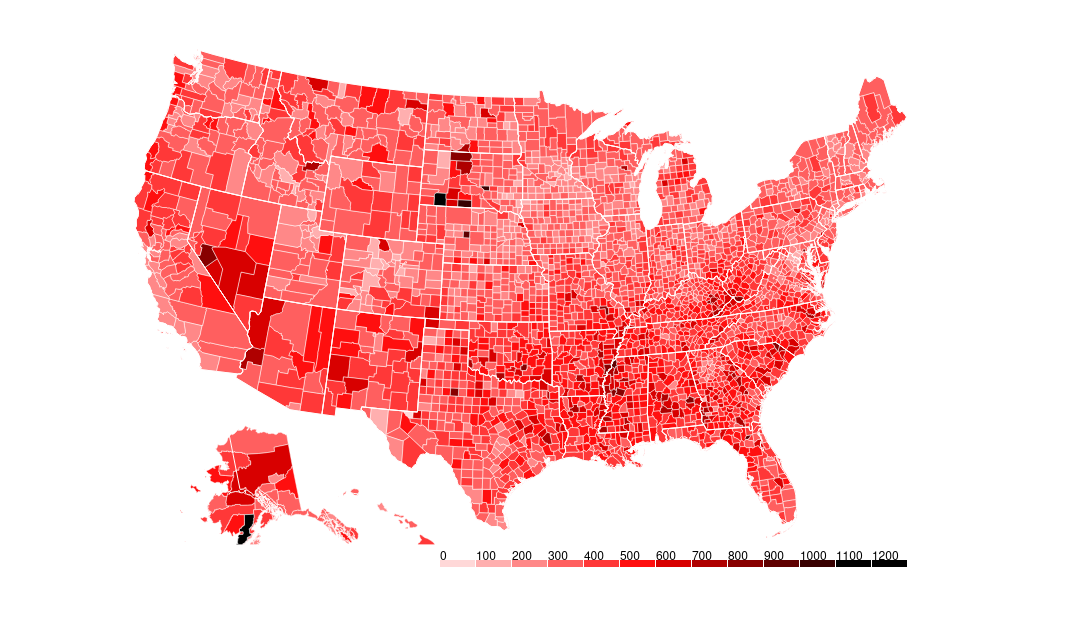
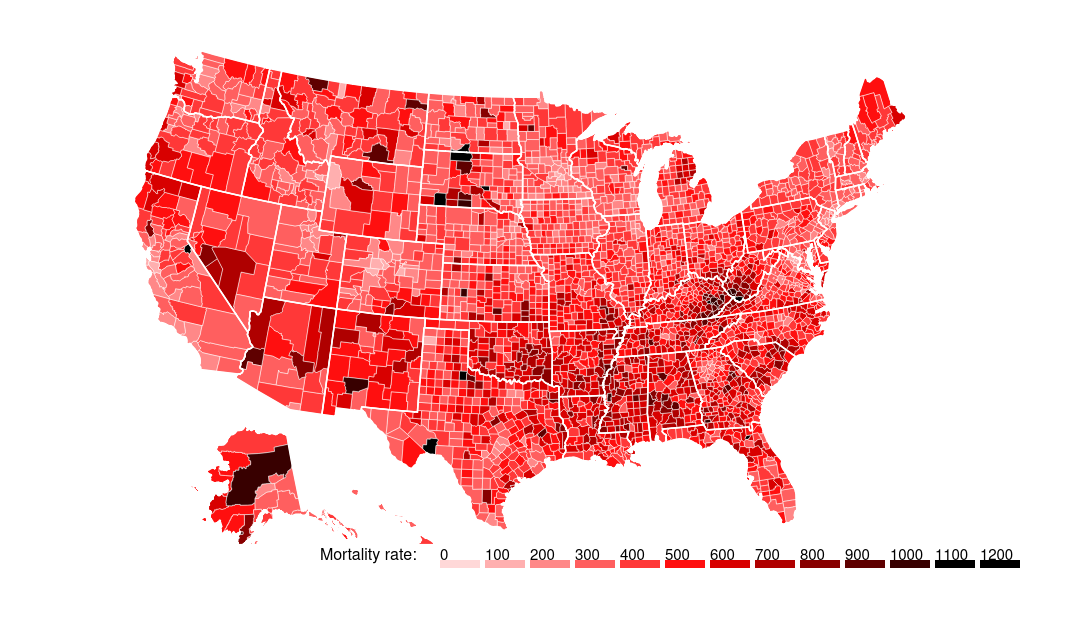
changed legend and added text, but couldn't run image_fixer.R

Changed region(s): [[0.1231, 0.0913, 0.8619, 0.8526], [0.1847, 0.6699, 0.9543, 0.9135], [0.3694, 0.8221, 0.4002, 0.8526]]

diff --git a/www/d3_animation.js b/www/d3_animation.js
@@ -134,11 +134,11 @@ r2d3.onRender(function(data, svg, width, height, options) {
           .enter()
           .append("rect")
           .attr({
-              width: 35,
-              height: 7,
+              width: 40,
+              height: 8,
               y: 520,
               x: function (d, i) {
-                  return 400 + 36 * i;
+                  return 400 + 45 * i;
               },
               fill: color
           });
@@ -150,14 +150,20 @@ r2d3.onRender(function(data, svg, width, height, options) {
       .attr({
         y:520,
         x:function(d,i){
-          return 400 + 36 * i;
+          return 400 + 45 * i;
         }})
       .text(function(d){
           return d;
         })
-      .style("font-size", "12px")
-      ;
-          
+      .style("font-size", "15px");
+      
+  svg.append("text")
+     .attr({
+       y:520,
+       x:280
+     })
+     .text("Mortality rate:");
+     
   var index = 0;        
   var timer;
   var playing = false;

diff --git a/www/All.js b/www/All.js
@@ -2,7 +2,7 @@ $(document).ready(() => {
 var image = document.getElementById("national_map_new");
 //var btn = document.getElementById("play");
 //btn.innerHTML = "Play";
-var images = ["National_image/All Cause/1.png","National_image/All Cause/2.png","National_image/All Cause/3.png","National_image/All Cause/4.png","National_image/All_Cause/5.png" ,"National_image/All Cause/6.png"];
+var images = ["National_image/All_Cause/1.png","National_image/All_Cause/2.png","National_image/All_Cause/3.png","National_image/All_Cause/4.png","National_image/All_Cause/5.png" ,"National_image/All_Cause/6.png"];
 var position = 0;
 var playing = false;
 

diff --git a/www/d3_geo_animation.js b/www/d3_geo_animation.js
@@ -133,8 +133,7 @@ r2d3.onRender(function(data, svg, width, height, options) {
     }})
   .text(function(d){
     return d;
-  })
-  ;
+  });
   
   var index = 0;        
   var timer;
